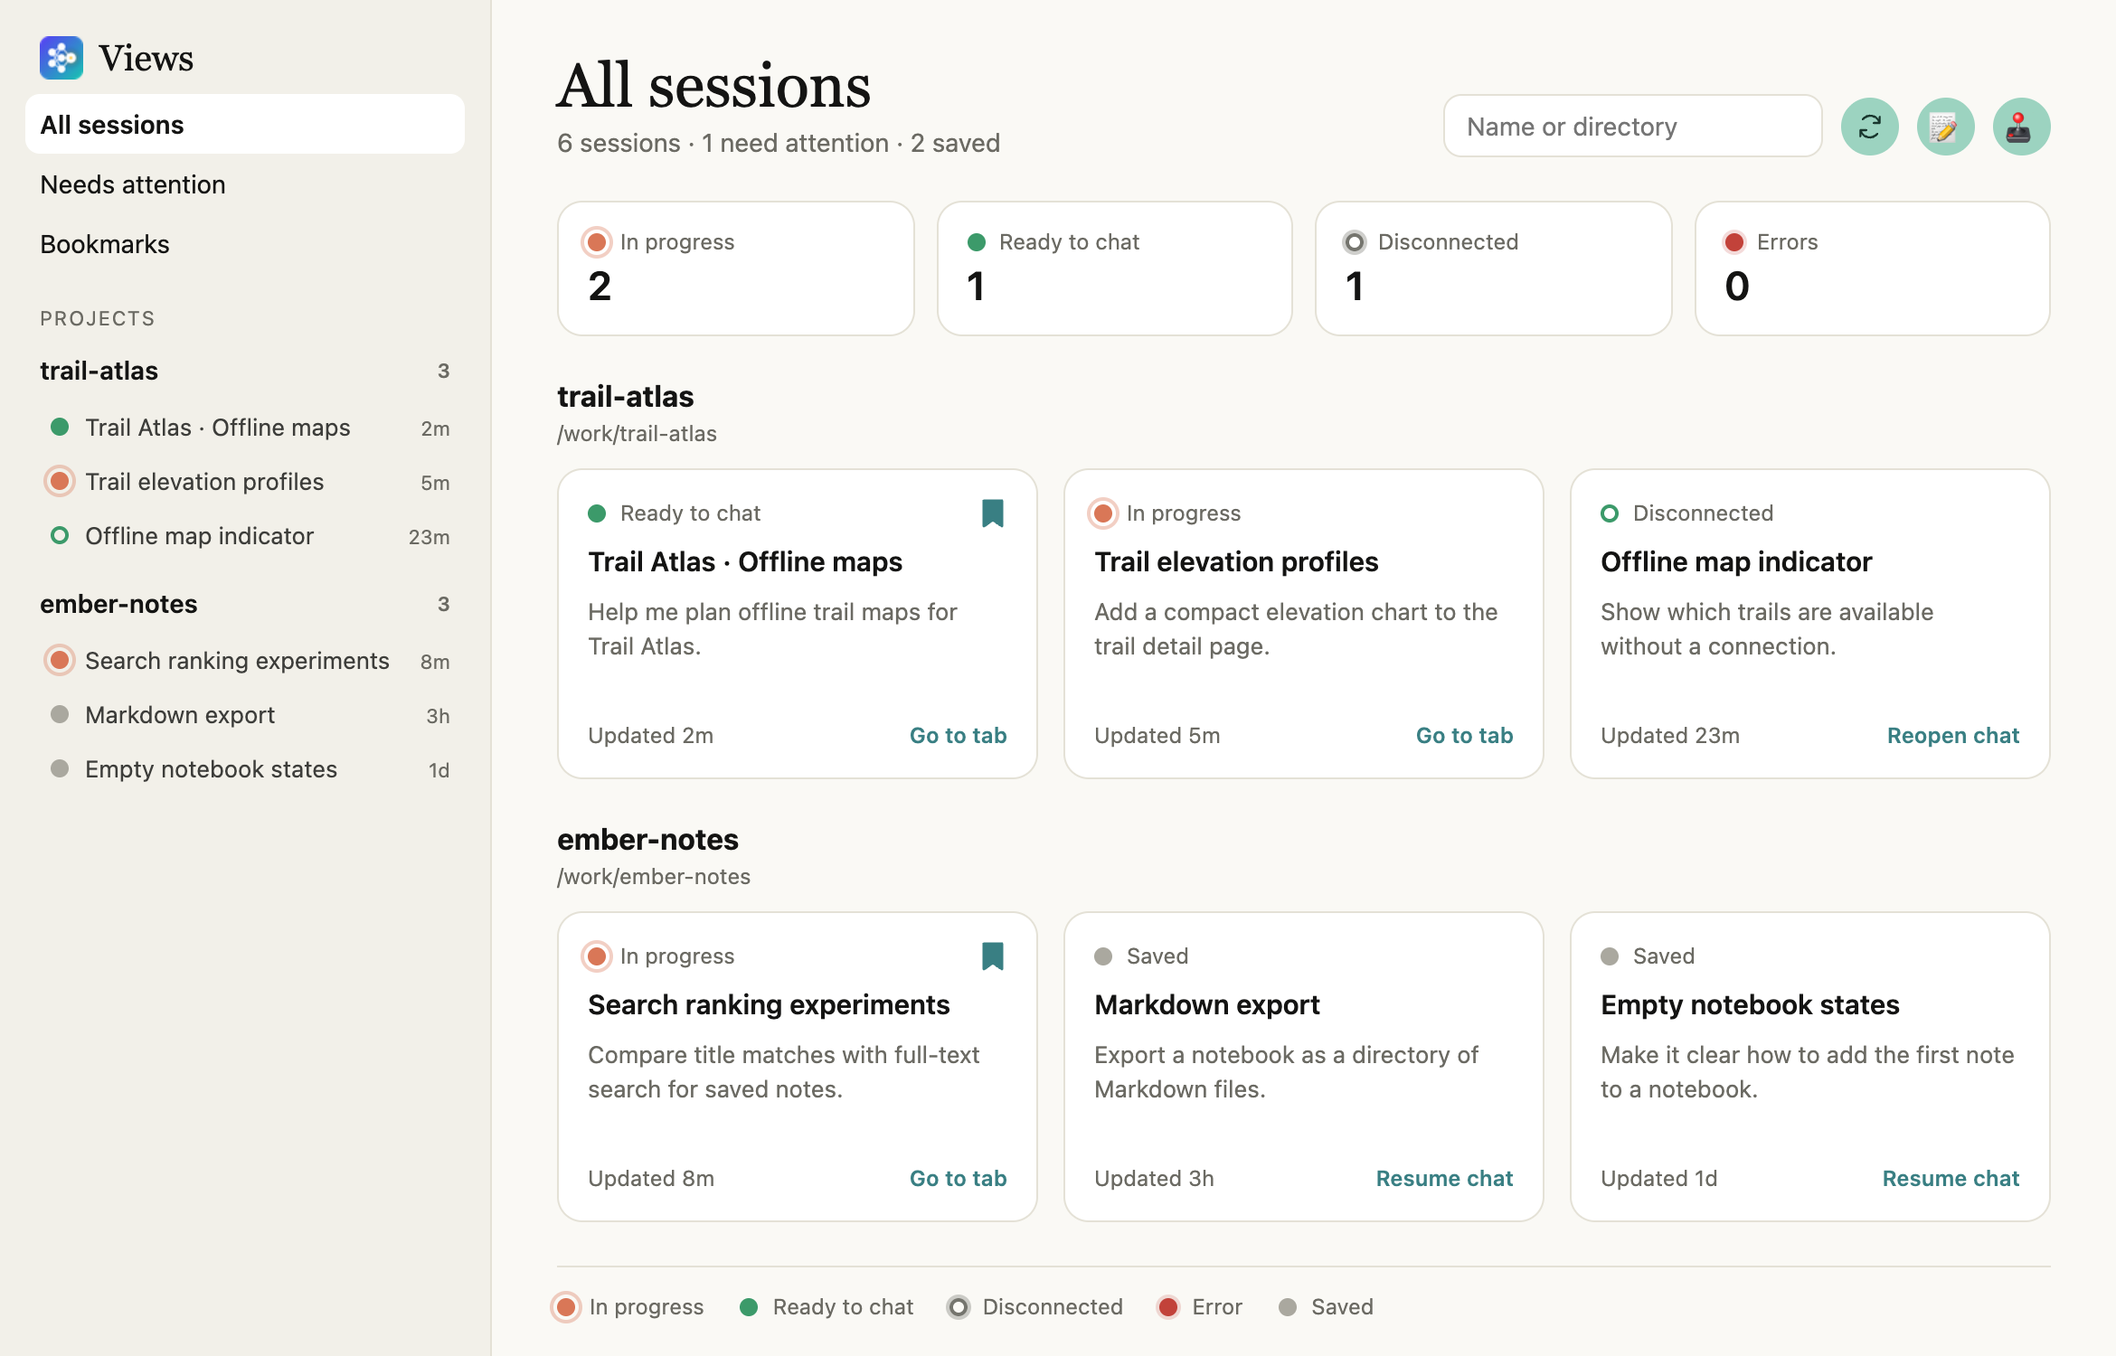
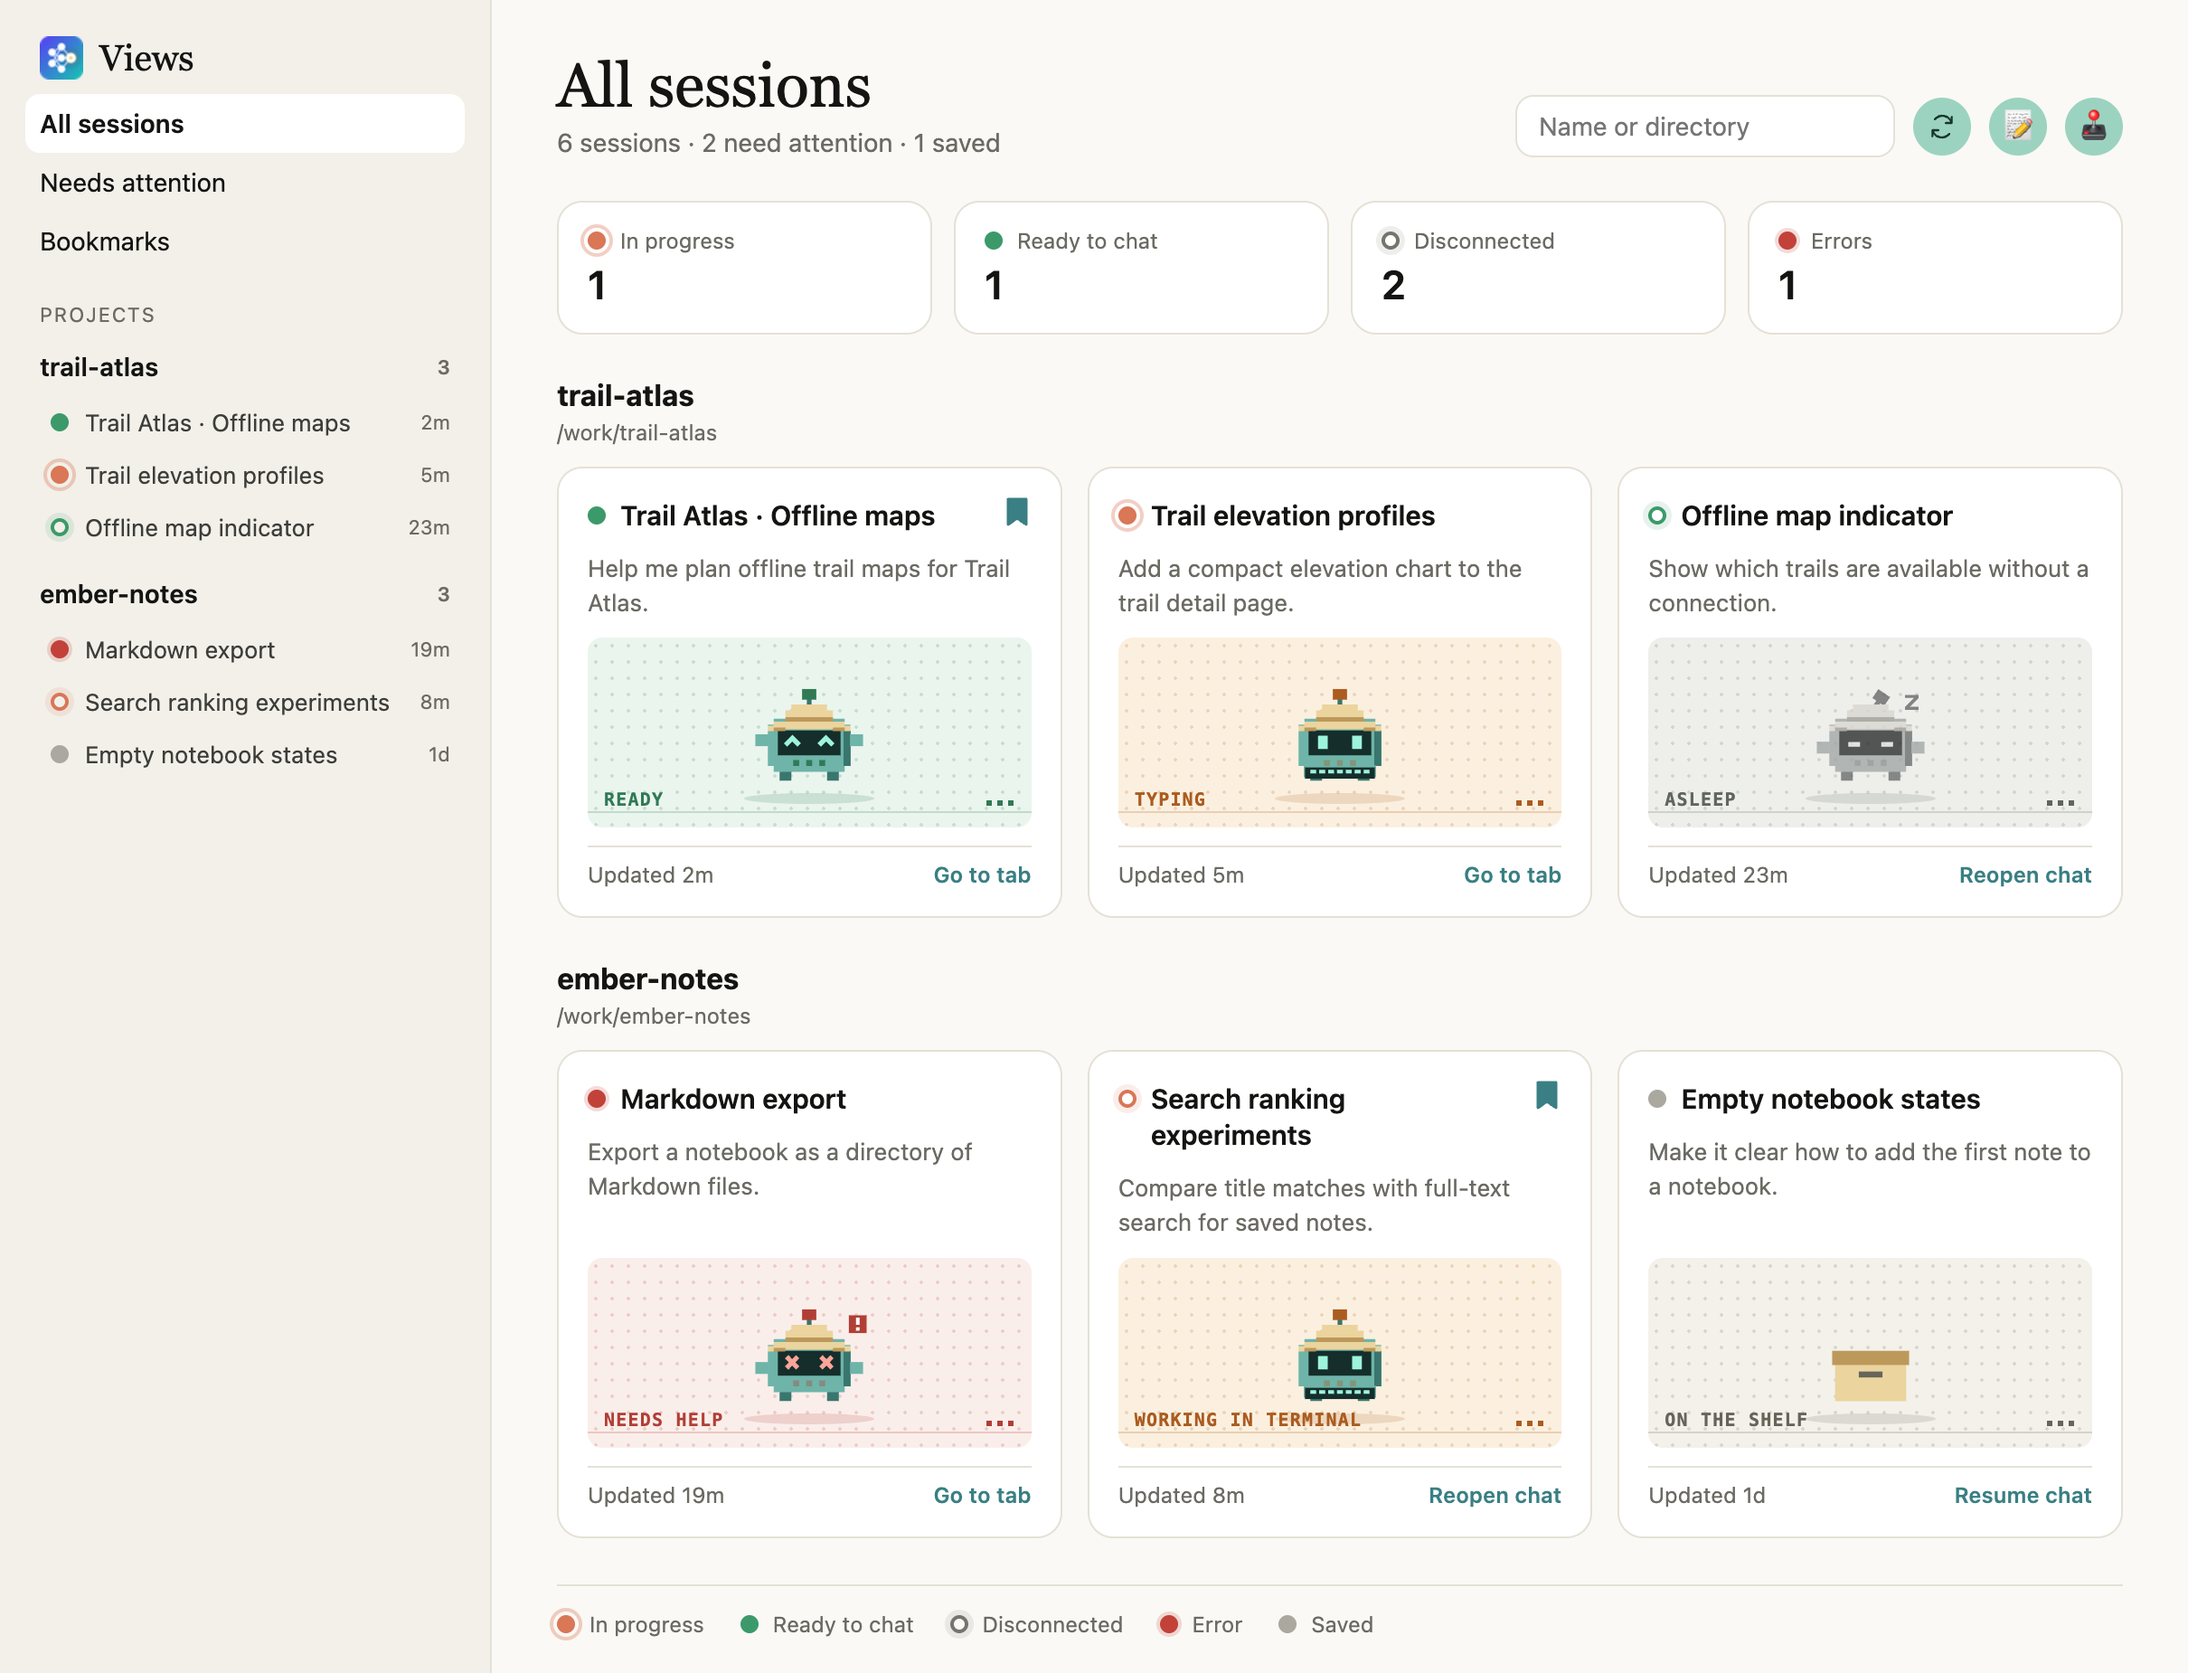
docs: refresh README UI showcase

diff --git a/README.md b/README.md
@@ -24,22 +24,32 @@ run `/reload` first. Keep the Pi terminal open while you use the browser.
 
 The screenshots below use fictional projects and conversations.
 
-### Chat in the browser and ask about a passage
-
-Read Markdown replies and code blocks, jump between turns, and send screenshots
-or text files. To ask about a specific passage, select it and click **Add
-annotation**. You can send several questions together, each with its quote. Keep
-a checklist or other reference material in the **Markdown note**, which saves
-locally without sending it to Pi.
-
-![Trail Atlas browser chat with a Markdown checklist and a follow-up question quoting a line from Pi’s reply](docs/screenshots/browser-chat.png)
-
 ### Find chats by project
 
-Use the dashboard to find saved sessions, bookmark chats you want to return to,
-and see which connected chats are working or ready for another message.
+Filter sessions by status, bookmark chats, and reopen or resume them from the
+Dashboard. Pixel pets reflect each session’s status: they type while Pi works,
+celebrate when it’s ready, and doze when the chat is disconnected and idle.
 
-![Dashboard showing six sessions grouped under Trail Atlas and Ember Notes, with bookmarks and session statuses](docs/screenshots/dashboard.png)
+![Dashboard showing six sessions across Trail Atlas and Ember Notes, with status dots beside titles and pixel pets reacting to session status](docs/screenshots/dashboard.png)
+
+### Find an earlier prompt and branch from a reply
+
+Hover over the message dots to preview the prompts you sent. Click a dot or a
+prompt in the list to jump back to it. Use **Branch from here** beneath a reply
+to start a named subchat with the conversation up to that point, leaving the
+original chat unchanged.
+
+![Trail Atlas chat with the prompt list open beside the message dots and the Branch from here tooltip beneath Pi’s reply](docs/screenshots/chat-navigation.png)
+
+### Chat in the browser and ask about a passage
+
+Read Markdown replies and code blocks, and send screenshots or text files.
+To ask about a specific passage, select it and click **Add annotation**. You can
+send several questions together, each with its quote. Keep a checklist or other
+reference material in the **Markdown note**, which saves locally without
+sending it to Pi.
+
+![Trail Atlas browser chat with a Markdown checklist and a follow-up question quoting a line from Pi’s reply](docs/screenshots/browser-chat.png)
 
 ## More details
 
